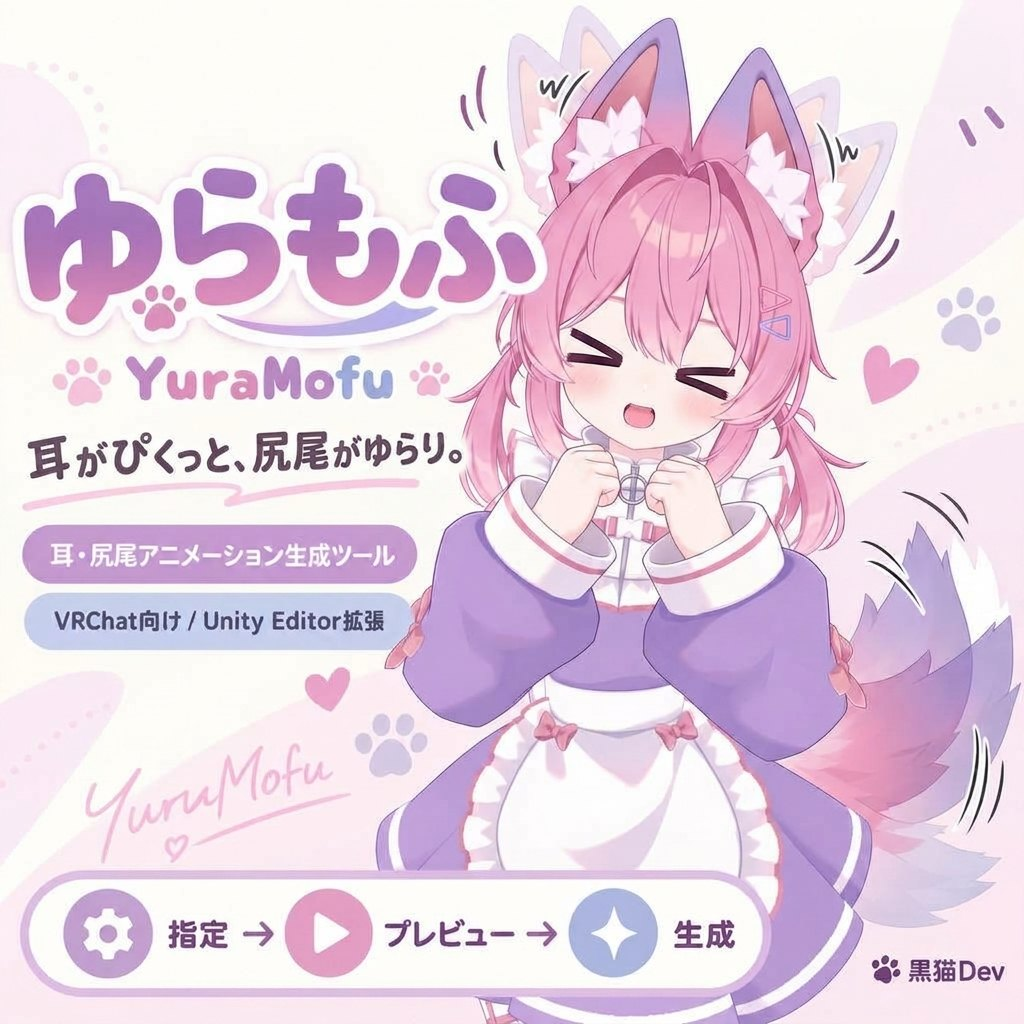
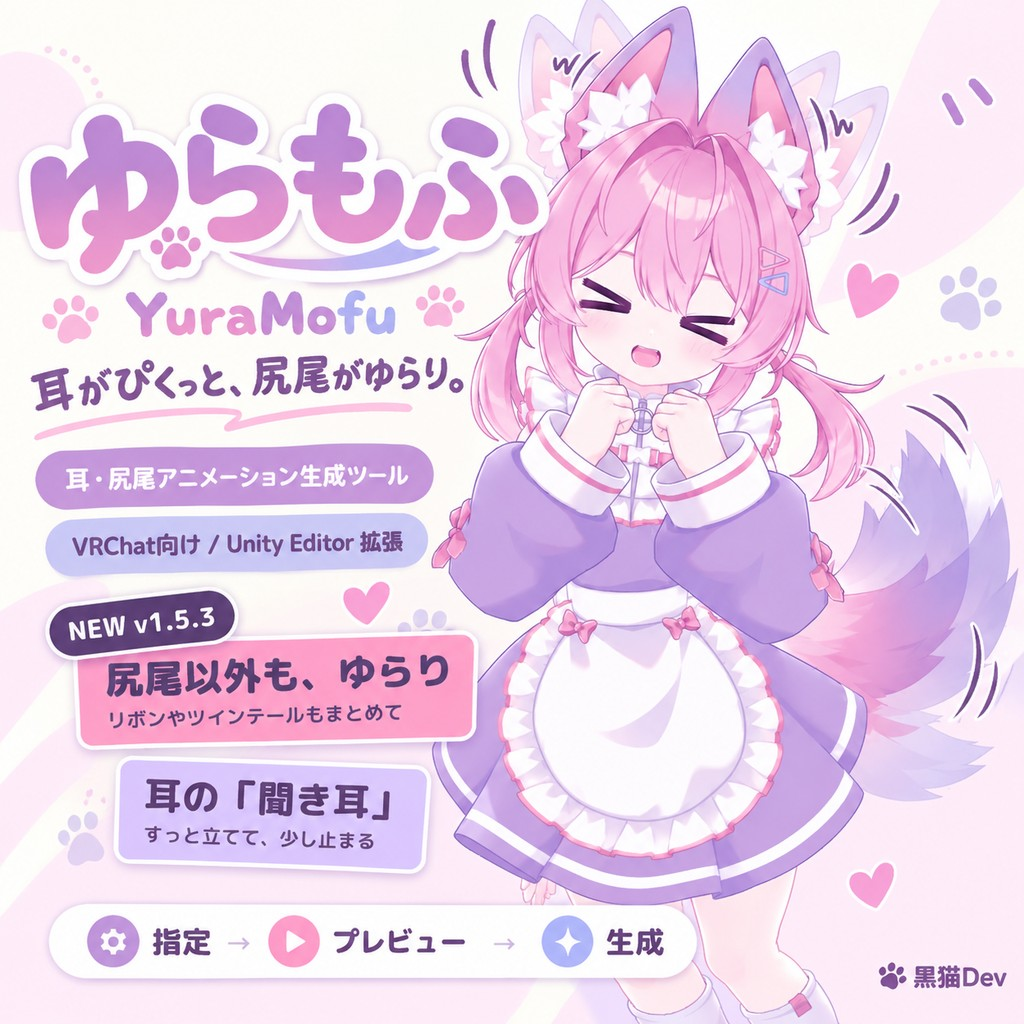
v1.5.3 images: new cover, set 2 and idle tab screenshots

diff --git a/ko.html b/ko.html
@@ -42,11 +42,10 @@
 <section id="start" class="sec"><h2><span class="num">01</span>시작하기</h2><p class="note">툴 화면은 오른쪽 위의 「KO」로 한국어로 바꿀 수 있습니다(v1.5.1 이후). 이 가이드의 스크린샷은 일본어 화면입니다.</p>
 <p class="note">동작 환경: Unity 2022.3 LTS 이상(Windows판 Unity Editor). FX 자동 추가, 제스처 연동, 꼬리 속도 다이얼에는 VRChat SDK3 Avatars가 필요합니다. SDK가 없어도 기본 Animation Clip은 생성할 수 있습니다.</p>
 <ol class="steps"><li><h4>임포트해서 열기</h4><p>unitypackage를 프로젝트에 임포트하고 메뉴의 <code>黒猫Dev → YuraMofu (ゆらもふ) → Open Window</code>를 엽니다. 작업 전에 프로젝트를 백업하는 것을 권장합니다.</p></li><li><h4>아바타를 지정하고 「자동 감지」</h4><p>Scene에 있는 아바타를 「아바타」 칸에 넣고 「자동 감지」를 누릅니다. 상태 표시줄의 귀・꼬리・FX가 ✓가 되면 준비 완료입니다. 검출 결과는 꼭 확인하고, 다르면 「본・세부 조정」에서 다시 지정하세요.</p></li><li><h4>스타일과 강도 고르기</h4><p>「대기 모션」 탭에서 모션 스타일과 강도를 고르고, 귀와 꼬리를 각각 조정합니다.</p></li><li><h4>프리뷰로 확인</h4><p>「미리보기」로 Scene에서 움직임을 확인합니다. 프리뷰 중에 바꾼 내용은 생성하기 전까지 에셋이나 FX에 기록되지 않습니다.</p></li><li><h4>생성 / 업데이트</h4><p>처음에는 「생성」, 이미 생성한 움직임을 바꿀 때는 「업데이트」를 누릅니다. 내보낼 파일과 추가・교체될 레이어 목록을 확인한 뒤 실행됩니다.</p></li></ol>
-<figure class="shot "><a class="zoom" href="assets/v150/ui_idle.png" data-caption="「대기 모션」 탭(화면은 일본어)"><img src="assets/v150/ui_idle.png" alt="「대기 모션」 탭(화면은 일본어)" width="810" height="698" loading="lazy" decoding="async"></a><figcaption>「대기 모션」 탭(화면은 일본어)</figcaption></figure></section>
+<figure class="shot "><a class="zoom" href="assets/v150/ui_idle.png" data-caption="「대기 모션」 탭(화면은 일본어)"><img src="assets/v150/ui_idle.png" alt="「대기 모션」 탭(화면은 일본어)" width="704" height="674" loading="lazy" decoding="async"></a><figcaption>「대기 모션」 탭(화면은 일본어)</figcaption></figure></section>
 <section id="idle" class="sec"><h2><span class="num">02</span>대기 모션</h2><h3>모션 스타일과 강도</h3>
 <ul class="chips"><li>얌전하게</li><li>자연스럽게</li><li>활발하게</li><li>졸린 듯</li><li>안절부절</li><li>장난스럽게</li><li>변덕스럽게</li></ul>
 <p>강도는 「약하게 / 보통 / 강하게」 중에서 고릅니다. 스타일을 고르면 귀・꼬리의 세부 설정이 그 스타일의 값으로 바뀝니다. 값을 직접 바꾸면 「조정됨」이 표시되며, 「스타일로 복원」으로 되돌릴 수 있습니다. <strong>변덕스럽게</strong>은 오래 가만히 있다가 가끔 한쪽 귀만 짧게 쫑긋하고, 꼬리는 한쪽으로 치우친 채 완급을 주며 흔들리는 스타일입니다.</p>
-<figure class="shot "><a class="zoom" href="assets/v150/kimagure.jpg" data-caption="변덕스럽게 (きまぐれ)"><img src="assets/v150/kimagure.jpg" alt="변덕스럽게 (きまぐれ)" width="1600" height="1600" loading="lazy" decoding="async"></a><figcaption>변덕스럽게 (きまぐれ)</figcaption></figure>
 <h3>귀</h3>
 <dl class="terms"><div><dt>귀 좌우</dt><dd>자동 / 동기 / 비동기. 동기일 때는 「한쪽 귀만 움직이는 비율」로 한쪽 귀만 쫑긋할 확률을 정할 수 있습니다.</dd></div><div><dt>움직임 종류</dt><dd>기본은 쫑긋하는 움직임뿐이지만, 「귀 방향 바꾸기」(천천히 바깥쪽으로 돌아가서 멈춤), 「귀 털기」(물기를 털듯이 흔듦), 「귀 기울이기」(귀를 세우고 잠시 멈춤)를 추가할 수 있습니다. 앞의 체크로 ON/OFF, 「빈도 (%)」로 비율을 정합니다. 켠 움직임의 합계는 100%까지이며, 나머지는 쫑긋하는 움직임이 됩니다.</dd></div></dl>
 <h3>꼬리</h3>

diff --git a/index.html b/index.html
@@ -41,11 +41,10 @@
 <p class="note warn">尻尾の動きと速度ダイヤルの修正は、ツールを更新したあと「更新」を実行すると既存の出力に反映されます。</p></section>
 <section id="start" class="sec"><h2><span class="num">01</span>はじめに</h2><p class="note">動作環境：Unity 2022.3 LTS 以降（Windows 版 Unity Editor）。FX への自動追加・ジェスチャー連動・尻尾速度のダイヤルには VRChat SDK3 Avatars が必要です。SDK がなくても基本の Animation Clip は生成できます。</p>
 <ol class="steps"><li><h4>インポートして開く</h4><p>unitypackage をプロジェクトへインポートし、メニューの <code>黒猫Dev → YuraMofu (ゆらもふ) → Open Window</code> を開きます。作業前にプロジェクトのバックアップをおすすめします。</p></li><li><h4>アバターを指定して「自動検出」</h4><p>Scene 上のアバターを「アバター」欄に入れて「自動検出」。状態欄の耳・尻尾・FX が ✓ になれば準備完了です。検出結果は必ず確認し、違っていれば「ボーン・詳細調整」で指定し直します。</p></li><li><h4>スタイルと強さを選ぶ</h4><p>「挙動・揺れ」タブでモーションスタイルと強さを選び、耳・尻尾それぞれを調整します。</p></li><li><h4>プレビューで確認</h4><p>「プレビュー」で Scene 上の動きを確認します。プレビュー中の変更は、生成するまでアセットや FX に書き込まれません。</p></li><li><h4>生成 / 更新</h4><p>初回は「生成」、生成済みの動きを変えるときは「更新」。書き出すファイルと追加・置き換えになるレイヤーの一覧を確認してから実行されます。</p></li></ol>
-<figure class="shot "><a class="zoom" href="assets/v150/ui_idle.png" data-caption="「挙動・揺れ」タブ"><img src="assets/v150/ui_idle.png" alt="「挙動・揺れ」タブ" width="810" height="698" loading="lazy" decoding="async"></a><figcaption>「挙動・揺れ」タブ</figcaption></figure></section>
+<figure class="shot "><a class="zoom" href="assets/v150/ui_idle.png" data-caption="「挙動・揺れ」タブ"><img src="assets/v150/ui_idle.png" alt="「挙動・揺れ」タブ" width="704" height="674" loading="lazy" decoding="async"></a><figcaption>「挙動・揺れ」タブ</figcaption></figure></section>
 <section id="idle" class="sec"><h2><span class="num">02</span>挙動・揺れ（待機モーション）</h2><h3>モーションスタイルと強さ</h3>
 <ul class="chips"><li>おとなしい</li><li>自然</li><li>元気</li><li>眠そう</li><li>そわそわ</li><li>おちゃめ</li><li>きまぐれ</li></ul>
 <p>強さは「弱め／ふつう／強め」。スタイルを選ぶと、耳・尻尾の細かな設定がそのスタイルの値になります。値を手で変えると「調整済み」と表示され、「スタイルに戻す」で元に戻せます。<strong>きまぐれ</strong>は、長い静止の合間に片耳だけの短いぴくっと、中心が片側に寄った緩急のある尻尾の揺れが入るスタイルです。</p>
-<figure class="shot "><a class="zoom" href="assets/v150/kimagure.jpg" data-caption="きまぐれ"><img src="assets/v150/kimagure.jpg" alt="きまぐれ" width="1600" height="1600" loading="lazy" decoding="async"></a><figcaption>きまぐれ</figcaption></figure>
 <h3>耳</h3>
 <dl class="terms"><div><dt>耳の左右</dt><dd>おまかせ／同期／非同期。同期のときは「片耳だけ動く割合」で、片方だけぴくっと動く確率を設定できます。</dd></div><div><dt>動きの種類</dt><dd>通常はぴくっと動くだけですが、「耳の向き変え」（ゆっくり外へ向けて止まる）、「耳をぶるっと振る」（水を払うように振る）、「聞き耳」（すっと立てて少し止まる）を追加できます。行頭のチェックで ON/OFF、「頻度 (%)」で割合を決めます。ON にした動きの合計は 100% までで、残りが「ぴくっ」になります。</dd></div></dl>
 <h3>尻尾</h3>

diff --git a/zh.html b/zh.html
@@ -41,11 +41,10 @@
 <p class="note warn">尾巴動作和速度轉盤的修正，更新工具後按「更新」就會套用到既有的輸出。</p></section>
 <section id="start" class="sec"><h2><span class="num">01</span>開始使用</h2><p class="note">環境需求：Unity 2022.3 LTS 以上（Windows 版 Unity Editor）。自動加入 FX、手勢連動與尾巴速度轉盤需要 VRChat SDK3 Avatars；沒有 SDK 也能生成基本的 Animation Clip。</p>
 <ol class="steps"><li><h4>匯入並開啟</h4><p>把 unitypackage 匯入專案，開啟選單 <code>黒猫Dev → YuraMofu (ゆらもふ) → Open Window</code>。建議先備份專案。</p></li><li><h4>指定角色並「自動偵測」</h4><p>把場景中的角色放進「角色」欄，按「自動偵測」。狀態列的耳朵、尾巴、FX 都打勾就準備好了。請確認偵測結果，有錯就到「骨骼與詳細調整」重新指定。</p></li><li><h4>選擇風格與強度</h4><p>在「待機擺動」分頁選擇動作風格和強度，再分別調整耳朵與尾巴。</p></li><li><h4>預覽確認</h4><p>按「預覽」在場景中確認動作。預覽中的修改，生成前不會寫入資產或 FX。</p></li><li><h4>生成／更新</h4><p>第一次按「生成」，之後要修改已生成的動作按「更新」。執行前會先列出要寫入的檔案和要新增或取代的圖層。</p></li></ol>
-<figure class="shot "><a class="zoom" href="assets/v150/ui_idle.png" data-caption="「待機擺動」分頁（畫面為日文介面）"><img src="assets/v150/ui_idle.png" alt="「待機擺動」分頁（畫面為日文介面）" width="810" height="698" loading="lazy" decoding="async"></a><figcaption>「待機擺動」分頁（畫面為日文介面）</figcaption></figure></section>
+<figure class="shot "><a class="zoom" href="assets/v150/ui_idle.png" data-caption="「待機擺動」分頁（畫面為日文介面）"><img src="assets/v150/ui_idle.png" alt="「待機擺動」分頁（畫面為日文介面）" width="704" height="674" loading="lazy" decoding="async"></a><figcaption>「待機擺動」分頁（畫面為日文介面）</figcaption></figure></section>
 <section id="idle" class="sec"><h2><span class="num">02</span>待機擺動</h2><h3>動作風格與強度</h3>
 <ul class="chips"><li>安靜</li><li>自然</li><li>活潑</li><li>想睡</li><li>緊張</li><li>俏皮</li><li>隨性</li></ul>
 <p>強度有「弱／普通／強」。選擇風格時，耳朵和尾巴的細部設定會套用該風格的數值。手動改了數值時會顯示「已調整」，按「恢復風格」可以回到風格的數值。<strong>隨性</strong>是在長時間靜止之間，夾雜單耳短促的抖動，以及中心偏向一側、快慢不一的尾巴擺動。</p>
-<figure class="shot "><a class="zoom" href="assets/v150/kimagure.jpg" data-caption="隨性（きまぐれ）"><img src="assets/v150/kimagure.jpg" alt="隨性（きまぐれ）" width="1600" height="1600" loading="lazy" decoding="async"></a><figcaption>隨性（きまぐれ）</figcaption></figure>
 <h3>耳朵</h3>
 <dl class="terms"><div><dt>左右耳</dt><dd>自動／同步／非同步。同步時可用「單耳動作比例」設定只有一邊耳朵抖動的機率。</dd></div><div><dt>動作種類</dt><dd>預設只有抖動，可以再加上「耳朵轉向」（慢慢朝外轉後停住）、「甩耳」（像甩掉水一樣甩動）和「傾聽」（豎起耳朵停一下）。用行首的勾選框開關，「頻率（%）」決定比例。開啟的動作合計最多 100%，其餘為抖動。</dd></div></dl>
 <h3>尾巴</h3>

diff --git a/en.html b/en.html
@@ -41,11 +41,10 @@
 <p class="note warn">The tail motion and speed dial fixes reach existing output when you run Update after updating the tool.</p></section>
 <section id="start" class="sec"><h2><span class="num">01</span>Getting started</h2><p class="note">Requirements: Unity 2022.3 LTS or later (Windows Unity Editor). Adding to FX, Gesture Link and the tail speed dial need the VRChat SDK3 Avatars; basic Animation Clips can be generated without it.</p>
 <ol class="steps"><li><h4>Import and open</h4><p>Import the unitypackage and open <code>黒猫Dev → YuraMofu (ゆらもふ) → Open Window</code>. Back up your project first.</p></li><li><h4>Pick the avatar and Auto Detect</h4><p>Put the scene avatar in the Avatar field and click Auto Detect. When ears, tail and FX show ✓ in the status bar, you are ready. Always check the result and fix bones in Bones & Details if needed.</p></li><li><h4>Choose a style and strength</h4><p>In the Idle Motion tab, choose a motion style and strength, then adjust the ears and tail.</p></li><li><h4>Preview</h4><p>Click Preview to see the motion in the Scene view. Nothing is written to assets or FX until you generate.</p></li><li><h4>Generate / Update</h4><p>Generate the first time; Update when changing existing output. A list of files and layers to be added or replaced is shown before anything is written.</p></li></ol>
-<figure class="shot "><a class="zoom" href="assets/v150/ui_idle.png" data-caption="Idle Motion tab"><img src="assets/v150/ui_idle.png" alt="Idle Motion tab" width="810" height="698" loading="lazy" decoding="async"></a><figcaption>Idle Motion tab</figcaption></figure></section>
+<figure class="shot "><a class="zoom" href="assets/v150/ui_idle.png" data-caption="Idle Motion tab"><img src="assets/v150/ui_idle.png" alt="Idle Motion tab" width="704" height="674" loading="lazy" decoding="async"></a><figcaption>Idle Motion tab</figcaption></figure></section>
 <section id="idle" class="sec"><h2><span class="num">02</span>Idle Motion</h2><h3>Motion style and strength</h3>
 <ul class="chips"><li>Calm</li><li>Natural</li><li>Lively</li><li>Sleepy</li><li>Nervous</li><li>Silly</li><li>Whimsical</li></ul>
 <p>Strength is Soft, Normal or Strong. Choosing a style sets the ear and tail details to that style's values. If you change values by hand, the style row shows "adjusted"; Restore style brings the style's values back. <strong>Whimsical</strong> adds long stillness broken by single, mostly one-ear twitches, and an off-centre tail swaying at an uneven tempo.</p>
-<figure class="shot "><a class="zoom" href="assets/v150/kimagure.jpg" data-caption="Whimsical (きまぐれ)"><img src="assets/v150/kimagure.jpg" alt="Whimsical (きまぐれ)" width="1600" height="1600" loading="lazy" decoding="async"></a><figcaption>Whimsical (きまぐれ)</figcaption></figure>
 <h3>Ears</h3>
 <dl class="terms"><div><dt>Ear L/R</dt><dd>Auto, Sync or Async. In Sync, Single-Ear Share sets how often only one ear twitches.</dd></div><div><dt>Motion types</dt><dd>By default the ears only twitch. Add Ear Swivel (turns slowly outward and holds), Ear Shake (flings the ear like shaking off water) and Listen (draws the ears up and holds for a moment). Each has a checkbox and a Frequency (%); the enabled moves share up to 100% and the rest are twitches.</dd></div></dl>
 <h3>Tail</h3>
